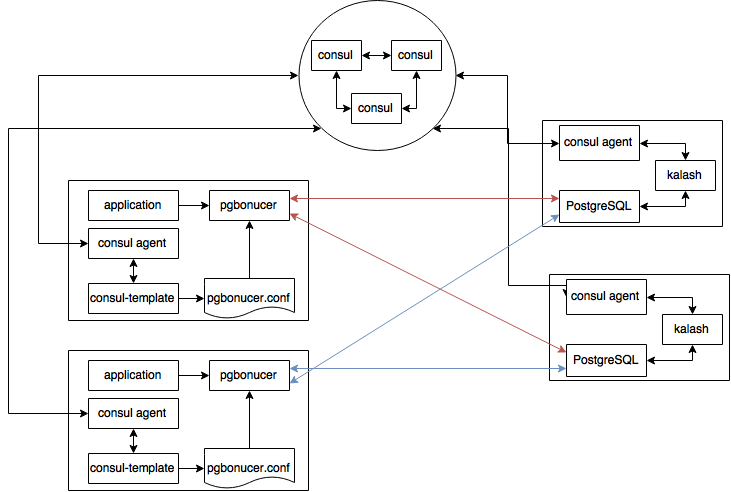
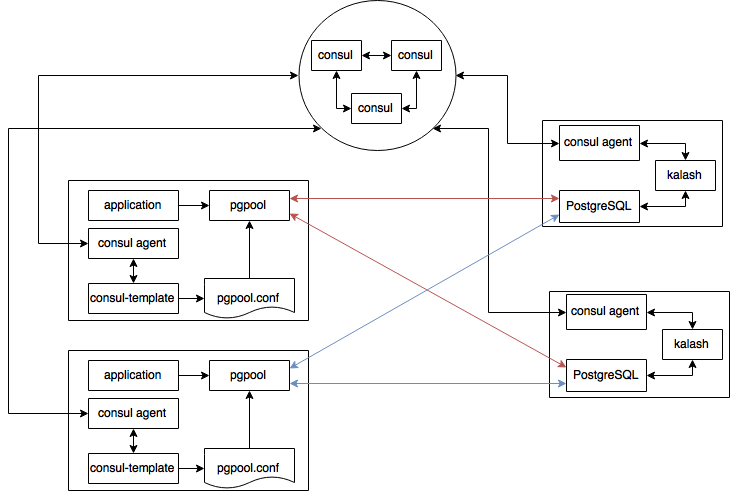
Consul leader election, readme & map fix

diff --git a/consul.go b/consul.go
@@ -2,7 +2,22 @@ package main
 
 import (
 	"log"
+	"net/http"
+	consul "github.com/hashicorp/consul/api"
 )
+
+const LockKey = "kalash/leader"
+
+type LeaderElection struct {
+	client          *consul.Client
+	lock            *consul.Lock
+	gotLeaderCh     chan struct{}
+	leaderLostCh    <- chan struct{}
+	gotSlaveCh      chan struct{}
+	leaderChangedCh <- chan struct{}
+	leader          bool
+	leaderHostname  string
+}
 
 func (c JoinCommand) consul() {
 	log.Println("Starting consul watcher")
@@ -13,11 +28,101 @@ func (c JoinCommand) consul() {
 
 	defer c.waitGroup.Done()
 
+	consulConfig := &consul.Config{
+		Address:    "127.0.0.1:8500",
+		Scheme:     "http",
+		HttpClient: http.DefaultClient,
+	}
+
+	client, err := consul.NewClient(consulConfig)
+	if err != nil {
+		log.Fatal("Failed to connect consul", err)
+	}
+
+	election := &LeaderElection{
+		client:          client,
+		gotLeaderCh:     make(chan struct{}),
+		leaderLostCh:    make(chan struct{}),
+		gotSlaveCh:      make(chan struct{}),
+		leaderChangedCh: make(chan struct{}),
+	}
+
+	election.start()
+
 	for {
 		select {
+		case <- election.gotLeaderCh:
+			if !election.leader {
+				log.Println("Promote this node to master")
+			}
+			log.Println("Starting postgres as master")
+			log.Println("Postgres successfully started as master")
+			log.Println("Registring consul health check")
+			log.Println("Consul health check successfully registred")
+		case <- election.leaderLostCh:
+			log.Println("Leadership lost")
+			election.start()
+		case <- election.gotSlaveCh:
+			log.Println("Stopping postgres")
+			log.Println("Postgres succesfully stopped")
+			log.Println("Try to sync with master")
+			log.Println("Successfully synced with master")
+			log.Println("Strarting postgres as slave")
+			log.Println("Postgres successfully started as slave")
+			log.Println("Registring consul health check")
+			log.Println("Consul health check successfully registred")
+		case <- election.leaderChangedCh:
+			log.Println("Leader changed, try to sync")
+			election.start()
 		case <- shutdownCh:
 			log.Println("Consul watcher stopped")
+			election.stop()
 			return
 		}
 	}
+}
+
+func (e *LeaderElection) start() {
+	log.Println("Looking for leader...")
+
+	lock, err := e.client.LockKey(LockKey)
+	if err != nil {
+		log.Println("Leader not found, try to acquire leadership")
+	}
+
+	go e.acquire(lock)
+}
+
+func (e *LeaderElection) stop() {
+	if e.leader {
+		e.leader = false
+		e.lock.Unlock()
+		e.lock.Destroy()
+	}
+}
+
+func (e *LeaderElection) acquire(lock *consul.Lock) {
+	leaderLostCh, err := lock.Lock(make(chan struct{}))
+	if err != nil {
+		log.Println("Cannot acquire leadership")
+
+		kv := e.client.KV()
+		pair, _, err := kv.Get(LockKey, nil)
+		if err != nil {
+			log.Println("Failed to fetch leader key from consul")
+			gracefulShutdown()
+			return
+		}
+
+		e.leaderHostname = string(pair.Value)
+		log.Println("Leader found, this node is slave")
+		e.gotSlaveCh <- struct{}{}
+		return
+	}
+
+	log.Println("Election win, this node is master")
+	e.lock = lock
+	e.leaderLostCh = leaderLostCh
+	e.leader = true
+	e.gotLeaderCh <- struct{}{}
 }

diff --git a/kalash.go b/kalash.go
@@ -1,11 +1,8 @@
 package main
 
 import (
-	"os"
 	"log"
 	"net"
-	"errors"
-	"syscall"
 	"net/rpc"
 	"net/http"
 )
@@ -48,13 +45,7 @@ func (c JoinCommand) kalash() {
 }
 
 func (kalash *KalashRPC) Leave(args *int, reply *string) error {
-	p, err := os.FindProcess(os.Getpid())
-	if err != nil {
-		*reply = "ERROR"
-		return errors.New("Can't find process: " + err.Error())
-	}
-
-	p.Signal(syscall.SIGINT)
+	gracefulShutdown()
 
 	*reply = "OK"
 	return nil

diff --git a/main.go b/main.go
@@ -40,11 +40,16 @@ func main() {
 	}
 }
 
+func gracefulShutdown() {
+	p, _ := os.FindProcess(os.Getpid())
+	p.Signal(syscall.SIGINT)
+}
+
 func makeShutdownCh() <-chan struct{} {
 	resultCh := make(chan struct{})
 
 	signalCh := make(chan os.Signal, 4)
-	signal.Notify(signalCh, os.Interrupt, syscall.SIGTERM)
+	signal.Notify(signalCh, os.Interrupt)
 	go func() {
 		<-signalCh
 		resultCh <- struct{}{}

diff --git a/README.md b/README.md
@@ -13,7 +13,7 @@ Kalash automatically elect a leader using consul.
 
 Kalash automatically configure master and standby, syncs them and trying to start PostgreSQL as child process on all cluster nodes.
 If postgres successfully started it registers a consul service with health check.
-After health check passes, consul-template continuously changing a pgbonucer config and reload pgbonucer on changes.
+After health check passes, consul-template continuously changing a pgpool config and reload pgpool on changes.
 
 ## Usage
 
